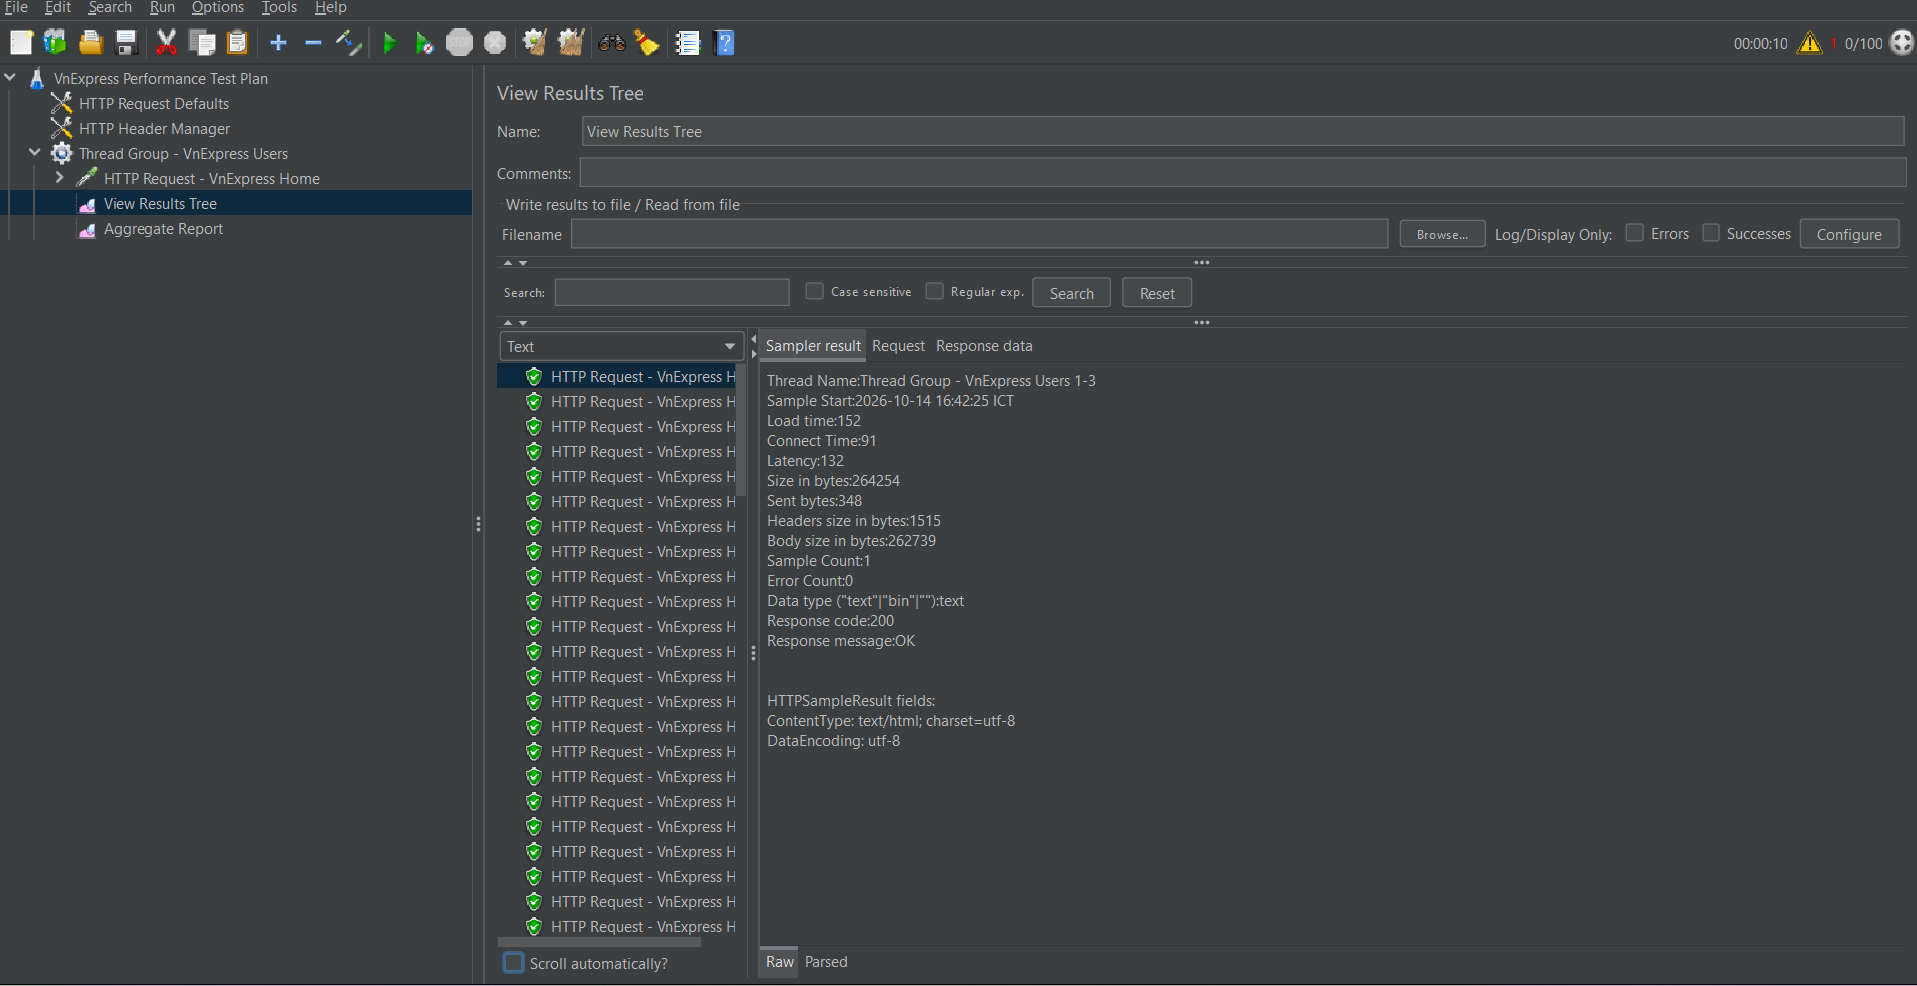
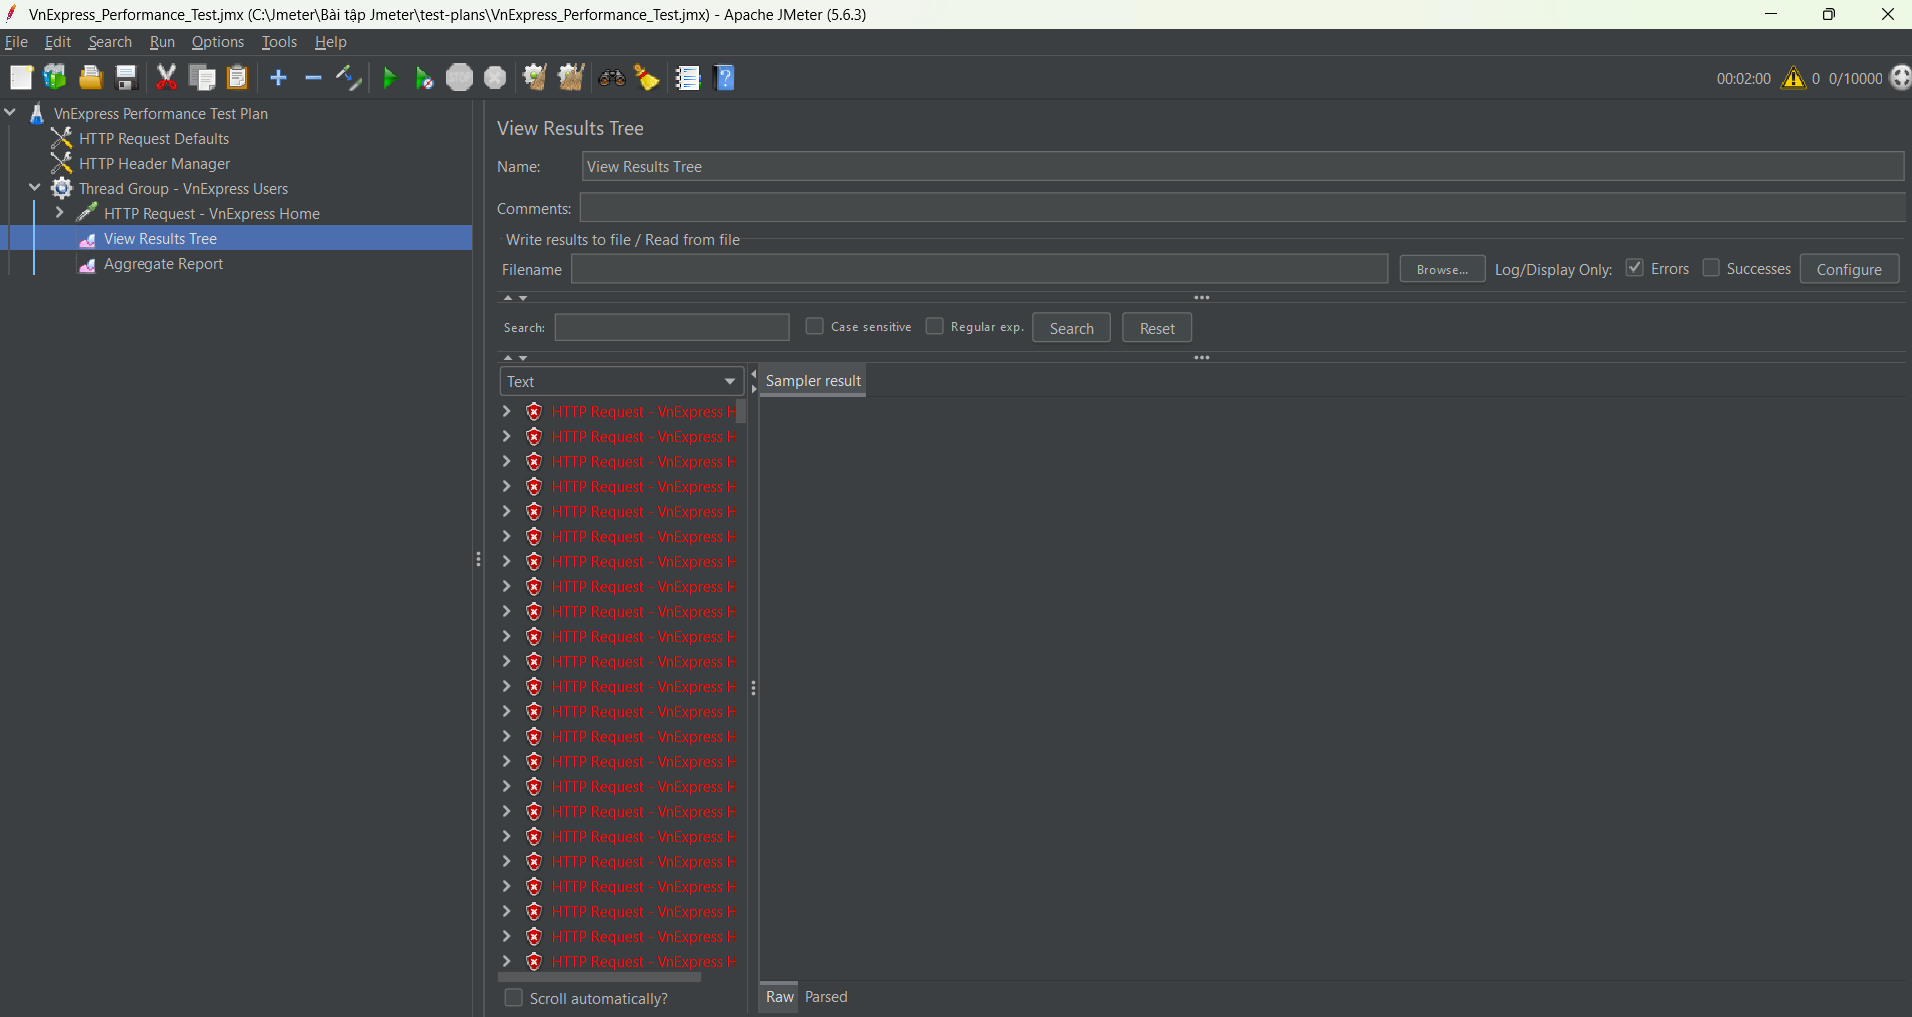
Update test plan to 10k users, update screenshots and README report

Changed region(s): [[0.0, 0.0, 1.0, 1.0], [0.7097, 0.213, 0.9874, 0.2738], [0.9874, 0.1217, 1.0, 0.1826]]

diff --git a/README.md b/README.md
@@ -1,39 +1,84 @@
-# JMeter
-## Kiểm tra hiệu năng trang web
-### Mục tiêu:
+# JMeter - Báo cáo kiểm tra hiệu năng trang web
 
-- Sử dụng jMeter để tạo một kịch bản kiểm tra mô phỏng người dùng truy cập trang web https://vnexpress.net/.
-- Chạy kịch bản kiểm tra và ghi lại kết quả.
-- Phân tích kết quả kiểm tra, bao gồm thời gian phản hồi, số lượng yêu cầu thành công, số lượng yêu cầu thất bại, v.v.
-- Dựa trên kết quả phân tích, đưa ra kết luận về hiệu năng của trang web.
-### Kịch bản kiểm tra:
+## 1. Mục tiêu kiểm thử
 
-- Thread Group:
-  - Số lượng thread: 100
-  - Thời gian chạy: 60 giây
-  - Ramp-up period: 10 giây
-- HTTP Request:
-  - URL: https://vnexpress.net/
-  - Method: GET
-  - Content encoding: UTF-8
-- Listeners:
-  - View Results Tree
-  - Aggregate Report
-### Kết quả kiểm tra:
+- Sử dụng Apache JMeter để tạo và thực thi kịch bản kiểm thử tải (Stress / Performance Testing) mô phỏng người dùng truy cập trang web [VnExpress](https://vnexpress.net/).
+- Đo lường và đánh giá khả năng chịu tải của hệ thống dưới áp lực lớn (10.000 người dùng đồng thời).
+- Ghi nhận và phân tích các chỉ số hiệu năng: thời gian phản hồi (Response Time), tỷ lệ lỗi (Error Rate), thông lượng (Throughput) và băng thông mạng.
+- Đưa ra nhận xét, đánh giá nguyên nhân và đề xuất phương án cải tiến kịch bản kiểm thử.
 
-![image](screenshots/vnexpress_aggregate_report.png)
+---
 
+## 2. Kịch bản kiểm tra (Test Plan)
 
-### Phân tích kết quả kiểm tra:
+- **Thread Group (Nhóm người dùng ảo)**:
+  - **Số lượng thread (Number of Threads - Users)**: 10.000 người dùng ảo
+  - **Thời gian tăng tốc (Ramp-up period)**: 100 giây (trung bình khởi tạo 100 thread/giây)
+  - **Thời gian chạy tối đa (Duration)**: 60 giây
+  - **Số vòng lặp (Loop Count)**: 1
+- **HTTP Request**:
+  - **Giao thức (Protocol)**: HTTPS
+  - **Tên miền (Server Name)**: `vnexpress.net`
+  - **Đường dẫn (Path)**: `/`
+  - **Phương thức (Method)**: GET
+  - **Mã hóa (Content Encoding)**: UTF-8
+- **Listeners (Bộ thu thập kết quả)**:
+  - **Aggregate Report**: Thống kê số liệu hiệu năng tổng hợp.
+  - **View Results Tree**: Kiểm tra trạng thái và thông tin chi tiết từng request (cấu hình Log Errors Only).
 
-- Số lượng yêu cầu thành công: 100/100 = 100%
-- Số lượng yêu cầu thất bại: 0/100 = 0%
-- Thời gian phản hồi trung bình: 103 ms
-- Thời gian phản hồi trung vị: 84 ms
-- Thời gian phản hồi percentil 90: 146 ms
-- Chuyển tải: 10,1 yêu cầu/giây
-### Kết luận:
+---
 
-Trang web https://vnexpress.net/ có hiệu năng rất tốt. Số lượng yêu cầu thành công đạt tuyệt đối (100%), số lượng yêu cầu thất bại là 0%. Thời gian phản hồi trung bình, trung vị và percentil 90 đều ở mức thấp (dưới 150 ms). Chuyển tải của trang web đạt 10,1 yêu cầu/giây ổn định.
-### Hình ảnh tổng quát
-![image](screenshots/vnexpress_overview.png)
+## 3. Kết quả kiểm tra
+
+### Báo cáo tổng hợp (Aggregate Report)
+![Aggregate Report](screenshots/vnexpress_aggregate_report.png)
+
+### Bảng số liệu chi tiết
+| Chỉ số (Metric) | Giá trị | Ý nghĩa |
+| :--- | :--- | :--- |
+| **Số mẫu kiểm thử (# Samples)** | 10.000 | Tổng số request gửi đến hệ thống |
+| **Thời gian phản hồi TB (Average)** | 21.036 ms (~21,04 s) | Thời gian phản hồi trung bình của một request |
+| **Thời gian trung vị (Median)** | 21.036 ms | 50% số request có thời gian phản hồi ≤ 21.036 ms |
+| **90% Line** | 21.050 ms | 90% số request có thời gian phản hồi ≤ 21.050 ms |
+| **95% Line** | 21.054 ms | 95% số request có thời gian phản hồi ≤ 21.054 ms |
+| **99% Line** | 21.061 ms | 99% số request có thời gian phản hồi ≤ 21.061 ms |
+| **Thời gian nhỏ nhất (Min)** | 21.006 ms | Thời gian phản hồi nhanh nhất |
+| **Thời gian lớn nhất (Max)** | 21.115 ms | Thời gian phản hồi chậm nhất |
+| **Tỷ lệ lỗi (Error %)** | 100.00% | 10.000 / 10.000 request thất bại |
+| **Thông lượng (Throughput)** | 82,7 req/giây | Tốc độ hoàn tất xử lý request |
+| **Băng thông nhận (Received KB/sec)** | 222,29 KB/s | Tốc độ truyền tải dữ liệu nhận về |
+| **Băng thông gửi (Sent KB/sec)** | 0,00 KB/s | Tốc độ truyền tải dữ liệu gửi đi |
+
+---
+
+## 4. Hình ảnh chi tiết lỗi (View Results Tree)
+
+![View Results Tree](screenshots/vnexpress_overview.png)
+
+*Toàn bộ 10.000 request đều hiển thị trạng thái lỗi (icon đỏ) khi lọc `Log/Display Only: Errors`.*
+
+---
+
+## 5. Phân tích kết quả kiểm tra
+
+1. **Tỷ lệ lỗi tuyệt đối (100% Error Rate)**:
+   - Với mức tải cực đại 10.000 users trong vòng 100 giây từ một địa chỉ IP duy nhất, hệ thống VnExpress không phản hồi thành công bất kỳ request nào.
+2. **Thời gian phản hồi đồng nhất quanh mốc ~21 giây**:
+   - Biên độ chênh lệch thời gian giữa Min (21.006 ms) và Max (21.115 ms) chỉ khoảng 109 ms.
+   - Điều này cho thấy các request không nhận được phản hồi nội dung thực tế từ ứng dụng mà bị treo kết nối cho đến khi chạm ngưỡng **Connection Timeout / Read Timeout** (khoảng 20–21 giây) rồi bị hủy.
+3. **Nguyên nhân chính**:
+   - **Hệ thống phòng thủ bảo vệ (WAF / Anti-DDoS / Rate Limiting)**: Hệ thống tường lửa ứng dụng (WAF) hoặc CDN bảo vệ của VnExpress đã phát hiện lưu lượng truy cập bất thường với tần suất quá cao từ cùng một nguồn IP và tự động kích hoạt cơ chế chặn kết nối (block IP / drop socket connection) để bảo vệ server gốc khỏi nguy cơ quá tải hoặc tấn công từ chối dịch vụ.
+   - **Nghẽn tài nguyên máy Client**: Việc khởi tạo 10.000 kết nối đồng thời từ một máy kiểm thử cá nhân có thể gây cạn kiệt cổng kết nối cục bộ (Ephemeral Port Exhaustion) hoặc nghẽn hàng đợi TCP stack của hệ điều hành.
+
+---
+
+## 6. Kết luận & Đề xuất
+
+### Kết luận
+- Trang web [VnExpress](https://vnexpress.net/) có cơ chế bảo vệ an ninh và kiểm soát lưu lượng truy cập rất nghiêm ngặt và hiệu quả trước các đợt tải đột biến từ một nguồn duy nhất.
+- Kịch bản kiểm thử tải 10.000 người dùng ảo từ một máy đơn lẻ giúp xác định được giới hạn chịu tải tối đa và cơ chế phòng vệ của hạ tầng mạng.
+
+### Đề xuất
+- **Kiểm thử phân tán (Distributed Testing)**: Áp dụng mô hình Master-Slave trong JMeter để sinh tải từ nhiều dải IP khác nhau, mô phỏng chân thực lưu lượng người dùng truy cập tự nhiên.
+- **Tăng tải theo từng giai đoạn (Step-up / Ramp-up Testing)**: Bắt đầu từ mức tải nhỏ và tăng dần (ví dụ: 500 $\rightarrow$ 1.000 $\rightarrow$ 2.000 $\rightarrow$ 5.000 users) để tìm chính xác điểm bão hòa (Saturation Point) và ngưỡng kích hoạt bảo vệ của hệ thống.
+- **Môi trường thử nghiệm**: Nên thực hiện trên môi trường Staging/Test có cấu hình tương đương Production và được whitelist IP kiểm thử để đánh giá chính xác năng lực xử lý mã nguồn và cơ sở dữ liệu.
